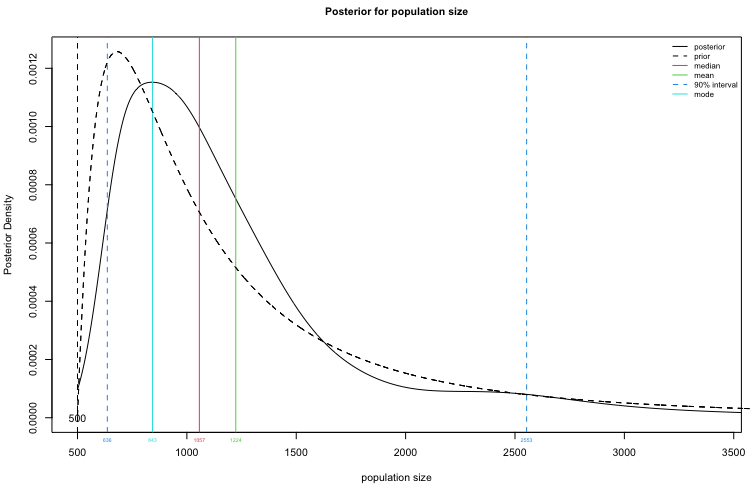
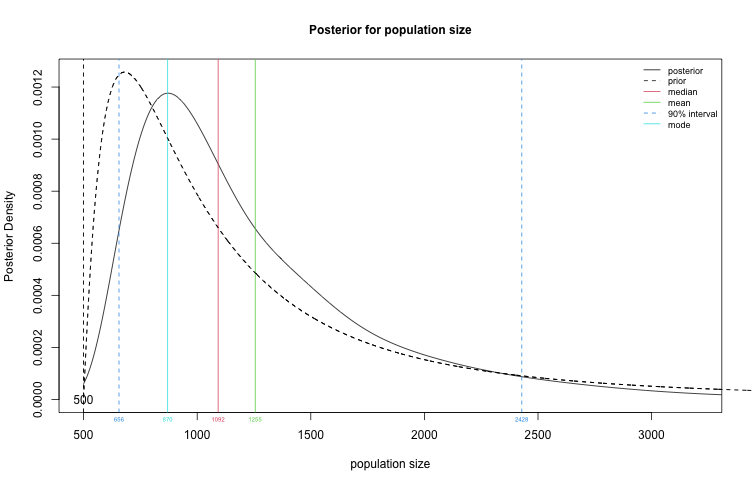
deploy: ccbaf53058e8c8e62fa97cec208e885a51213d8b

diff --git a/index.html b/index.html
@@ -12,11 +12,10 @@ frame for the target population is not available, and its members are rare or st
 expensive to contact them through the available frames. Examples of such populations in a behavioral and social setting include injection drug
 users, men who have sex with men, and female sex workers. Examples in an economic setting include unregulated workers and the self-employed.
 Hard-to-reach populations in the US and elsewhere are under-served by current sampling methodologies mainly due to the lack of practical
-alternatives to address these methodological difficulties.</p><p>See the menu bar at the top for inormation about <span style=color:blue>RDS Analyst</span> software</p><div class=row></div></div></div></div></section><section id=aboutus class="home-section wg-blank"><div class=container><div class=row><div class="col-12 col-lg-4 section-heading"><h1>About our members</h1></div><div class="col-12 col-lg-8"><p>The Hard-to-Reach Population Methods Research Group is a collaborative interdisciplinary group of researchers from several universities:</p><img src=/img/msh.jpg align=left width=250 height=250 style="padding:5px 15px 0 0"><p><span style=color:blue><em><strong>Dr. Mark S. Handcock</strong></em></span>  is Professor of Statistics in the Department of Statistics at the University of
-California – Los Angeles.
+alternatives to address these methodological difficulties.</p><p>See the menu bar at the top for inormation about <span style=color:blue>RDS Analyst</span> software</p><div class=row></div></div></div></div></section><section id=aboutus class="home-section wg-blank"><div class=container><div class=row><div class="col-12 col-lg-4 section-heading"><h1>About our members</h1></div><div class="col-12 col-lg-8"><p>The Hard-to-Reach Population Methods Research Group is a collaborative interdisciplinary group of researchers from several universities:</p><img src=/img/msh.jpg align=left width=250 height=250 style="padding:5px 15px 0 0"><p><span style=color:blue><em><strong>Dr. Mark S. Handcock</strong></em></span>  is Distinguished Professor of Statistics in the Department of Statistics and Data Science at the University of California – Los Angeles.
 His research involves methodological development, and is based largely on motivation from questions in the social and
 epidemiological sciences. He has published extensively on survey sampling, network inference, and network sampling methods. For details see
-<a href=https://handcock.github.io target=_blank rel=noopener>his web page</a>.<br clear=”left”></p><img src=/img/kmcl.jpg align=left width=270 height=270 style="padding:10px 15px 0 0"><p><span style=color:blue><em><strong>Dr. Katherine R. McLaughlin</strong></em></span>  is Assistant Professor of Statistics in the Department of Statistics at the
+<a href=https://handcock.github.io target=_blank rel=noopener>his web page</a>.<br clear=”left”></p><img src=/img/kmcl.jpg align=left width=270 height=270 style="padding:10px 15px 0 0"><p><span style=color:blue><em><strong>Dr. Katherine R. McLaughlin</strong></em></span>  is Associate Professor of Statistics in the Department of Statistics at the
 Oregon State University. She works in many areas of statistics, often with application to social demography and global health. She is an
 expert in social network analysis, network sampling, survey sampling and social statistics. Her dissertation work focuses on modeling
 preferential recruitment for RDS and Peer-Driven Interventions. For details see

diff --git a/sspse/index.html b/sspse/index.html
@@ -62,15 +62,17 @@ interval for $N$.</p><pre><code>summary(fit2, HPD.level = 0.9)
 </code></pre><pre><code>## Summary of Population Size Estimation
 ##           Mean Median Mode 25%  75%  90%  5%  95%
 ## Prior     1247   1000  680 748 1480 2240 583 2852
-## Posterior 1275   1061  839 823 1486 2156 609 2732
+## Posterior 1254   1100  913 858 1482 2016 621 2425
 </code></pre><h1 id=resources>Resources</h1><p>Please use the GitHub repository to report bugs or request features:
-<a href=https://https://github.com/HPMRG/sspse target=_blank rel=noopener>https://https://github.com/HPMRG/sspse</a></p><p>See the following papers for more information and examples:</p><h4 id=statistical-methodology>Statistical Methodology</h4><ul><li>Handcock, Mark S., Gile, Krista J. and Mar, Corinne M. (2014)
+<a href=https://https://github.com/HPMRG/sspse target=_blank rel=noopener>https://github.com/HPMRG/sspse</a></p><p>See the following papers for more information and examples:</p><h4 id=statistical-methodology>Statistical Methodology</h4><ul><li>Handcock, Mark S.; Gile, Krista J. and Mar, Corinne M. (2014)
 <a href=https://doi.org/10.1214/14-ejs923 target=_blank rel=noopener>Estimating Hidden Population Size using Respondent-Driven Sampling
-Data</a>, <em>Electronic Journal of Statistics</em>, 8(1):1491-1521.</li><li>Handcock, Mark S., Gile, Krista J. and Mar, Corinne M. (2015)
+Data</a>, <em>Electronic Journal of Statistics</em>, 8(1):1491-1521.</li><li>Handcock, Mark S.; Gile, Krista J. and Mar, Corinne M. (2015)
 <a href=https://doi.org/10.1111/biom.12255 target=_blank rel=noopener>Estimating the Size of Populations at High Risk for HIV using Respondent-Driven
 Sampling Data</a>, <em>Biometrics</em>, 71(1):258-266.</li><li>Kim, Brian J. and Handcock, Mark S. (2021)
 <a href=https://doi.org/10.1093/jssam/smz055 target=_blank rel=noopener>Population Size Estimation Using Multiple Respondent-Driven Sampling
-Surveys</a>, <em>Journal of Survey Statistics and Methodology</em>, 9(1):94–120.</li></ul><h4 id=applications>Applications</h4><ul><li>Johnston, Lisa G., McLaughlin, Katherine R., El Rhilani, Houssine, Latifi, Amina, Toufik, Abdalla, Bennani, Aziza, Alami, Kamal, Elomari,
+Surveys</a>, <em>Journal of Survey Statistics and Methodology</em>, 9(1):94–120.</li><li>McLaughlin, Katherine R.; Johnston, Lisa G.; Jakupi, Xhevat; Gexha-Bunjaku, Dafina; Deva, Edona and Handcock, Mark S.
+(2023)
+<a href=https://doi.org/10.1214/23-AOAS1807 target=_blank rel=noopener>Modeling the Visibility Distribution for Respondent-Driven Sampling with Application to Population Size Estimation</a>, <em>Annals of Applied Statistics</em>.</li></ul><h4 id=applications>Applications</h4><ul><li>Johnston, Lisa G., McLaughlin, Katherine R., El Rhilani, Houssine, Latifi, Amina, Toufik, Abdalla, Bennani, Aziza, Alami, Kamal, Elomari,
 Boutaina, and Handcock, Mark S. (2015)
 <a href=https://doi.org/10.1097/EDE.0000000000000362 target=_blank rel=noopener>Estimating the Size of Hidden Populations Using Respondent-driven Sampling Data: Case Examples from
 Morocco</a>, <em>Epidemiology</em>, 26(6):846-852.</li><li>Johnston, Lisa G., McLaughlin, Katherine R., Rouhani, Shada A., and Bartels, Susan A. (2017)
